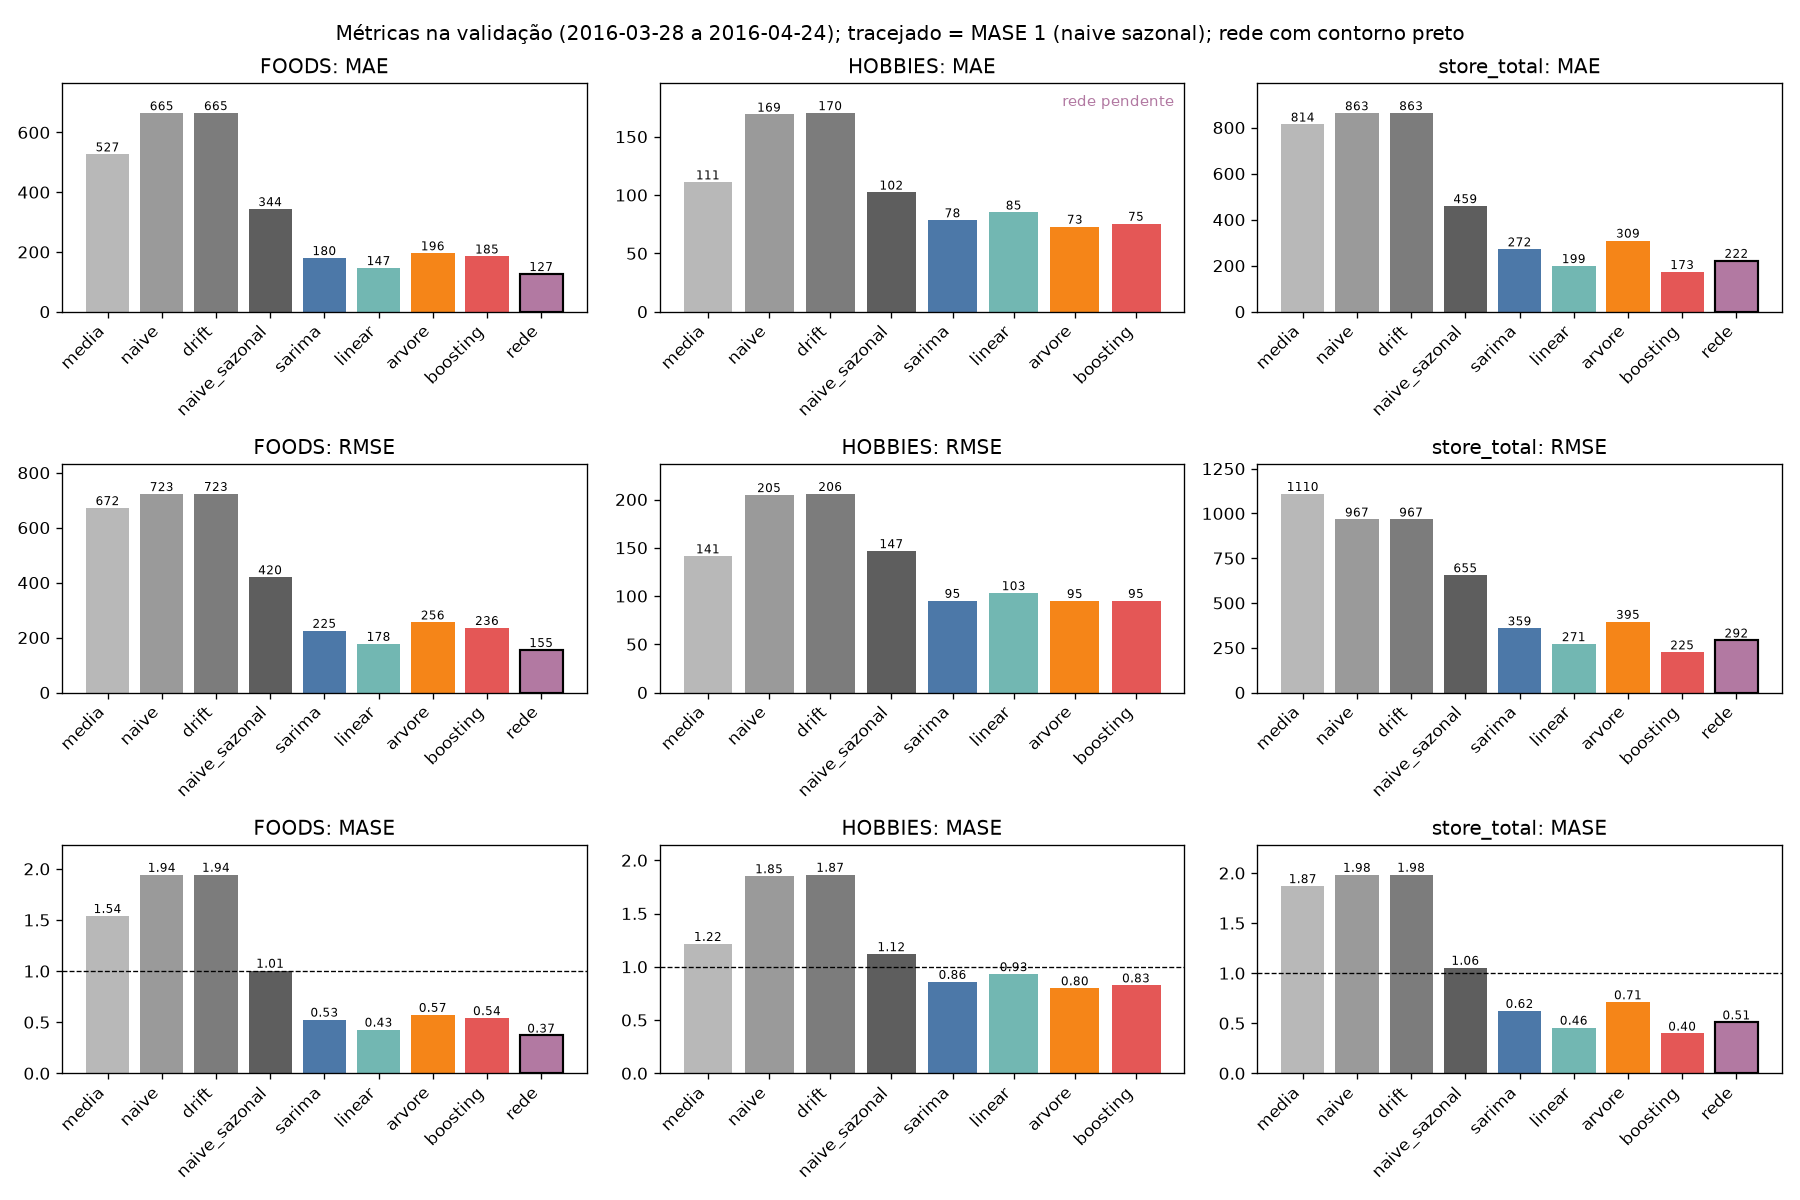
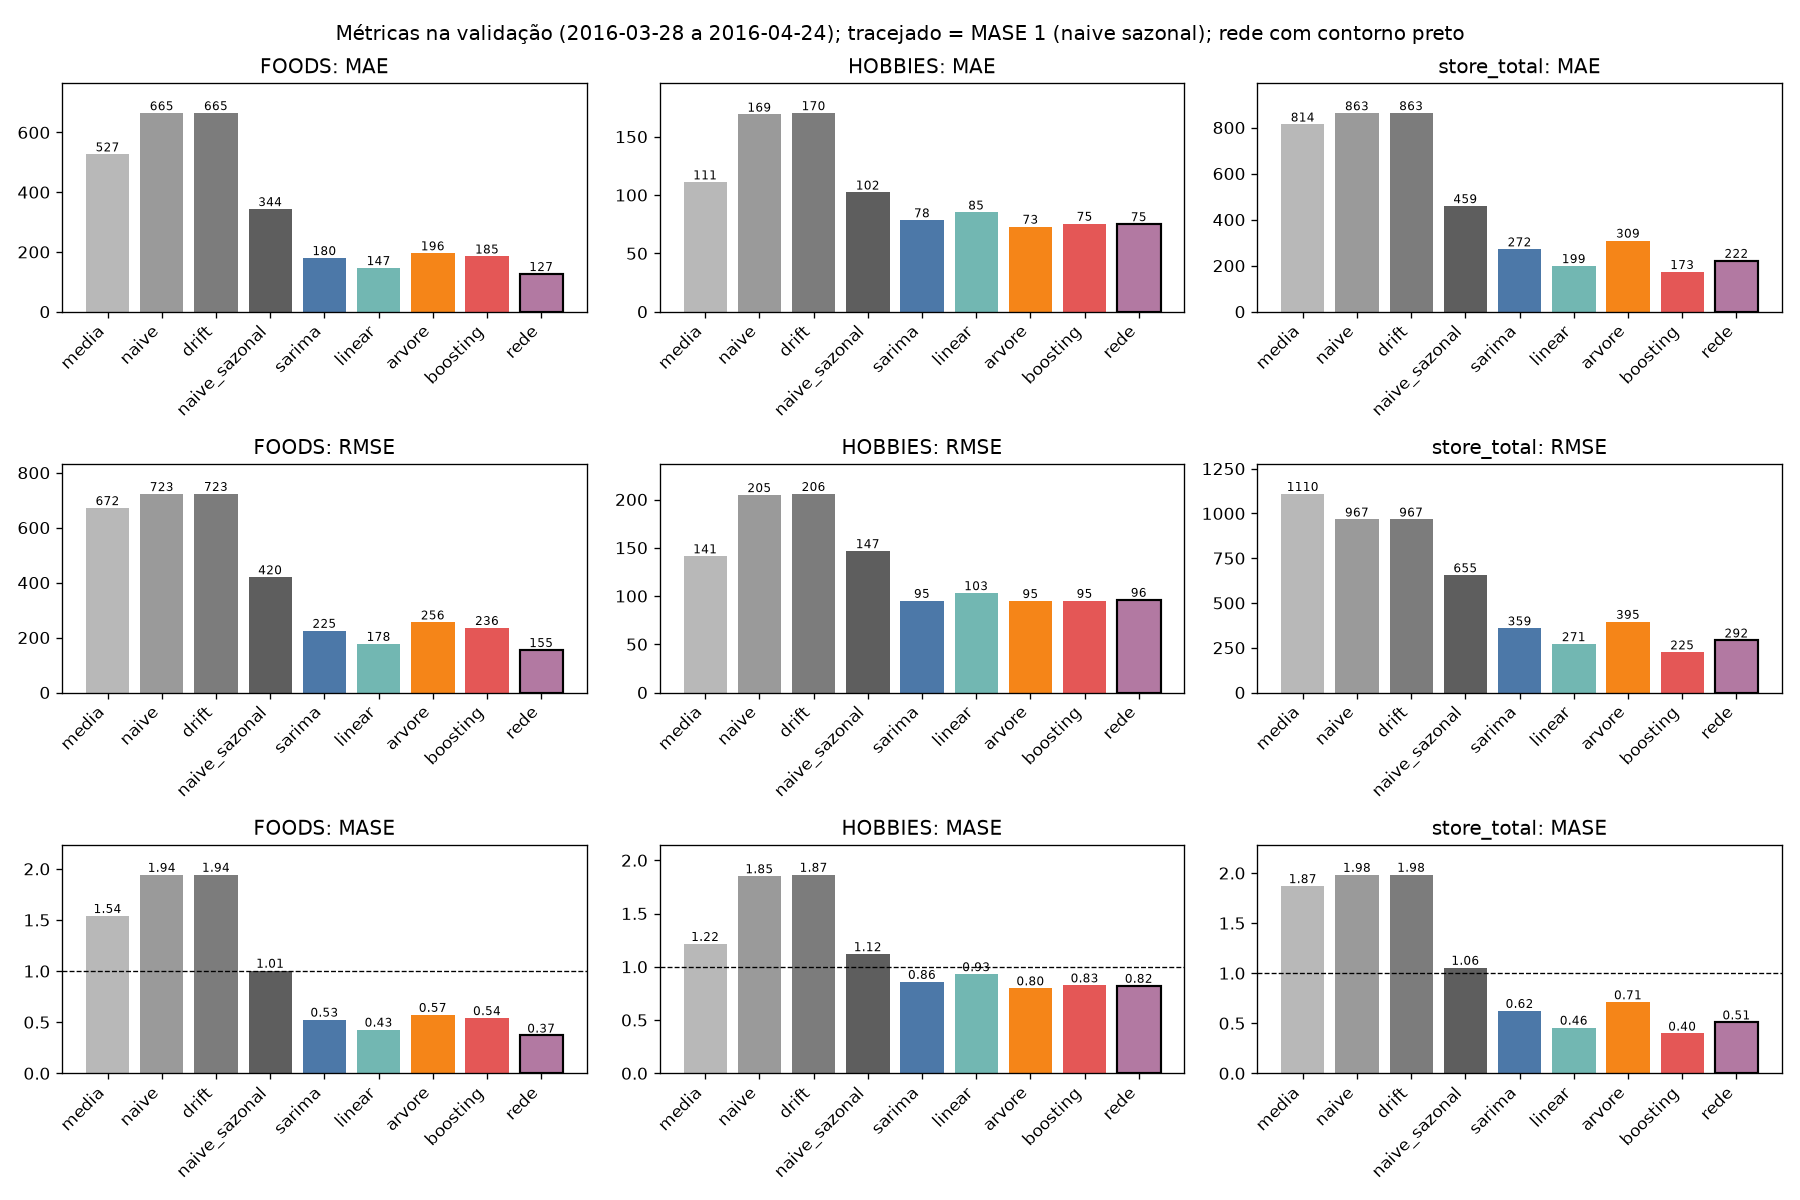
refreshes the Task 4 figures with the HOBBIES rede and fixes two README paths
The figures merged with the plots PR showed HOBBIES as pending. With the
HOBBIES rede in the root CSVs, rerunning part4/src/plot_rede_diagnostico.py
fills those panels. The README still pointed to model_direto_hobbies.py,
which the LSTM branch moved to model_hobbies/linear_direto.py, and the
HOBBIES rede row now names recursive_lstm.py instead of the folder.

diff --git a/README.md b/README.md
@@ -57,14 +57,14 @@ Cada série tem o próprio ajuste. O CSV de previsões de cada modelo tem as col
 | Classe | Série | Arquivo | Script |
 |---|---|---|---|
 | `linear` | FOODS | `part2/projeto-task2/linear_foods_model/previsoes_validacao_foods.csv` | `part2/projeto-task2/linear_foods_model/linear_foods.py` |
-| `linear` | HOBBIES | `part2/outputs/previsoes_linear_direto_HOBBIES.csv` | `part2/src/model_direto_hobbies.py` |
+| `linear` | HOBBIES | `part2/outputs/previsoes_linear_direto_HOBBIES.csv` | `part2/src/model_hobbies/linear_direto.py` |
 | `linear` | store_total | `part2/outputs/previsoes_linear_store_total.csv` | `part2/src/model_store_total/models/linear.py` |
 | `arvore`, `boosting` | HOBBIES | `part3/outputs/previsoes_direto_HOBBIES.csv` | `part3/src/hobbies_model/model_direto_hobbies.py` |
 | `arvore` | store_total | `part3/outputs/previsoes_arvore_store_total.csv` | `part2/src/model_store_total/models/tree_boost_grid_search.py` |
 | `boosting` | store_total | `part3/outputs/previsoes_boosting_store_total.csv` | `part2/src/model_store_total/models/tree_boost_grid_search.py` |
 | `arvore`, `boosting` | FOODS | `part3/outputs/previsoes_direto_FOODS.csv` | `part3/src/foods_model/model_direto_foods.py` |
 | `rede` | FOODS | `part3/src/rede_foods/previsoes_validacao_foods.csv` | `part3/src/rede_foods/main.py` |
-| `rede` | HOBBIES | `part4/outputs/previsoes_rede_HOBBIES.csv` | `part2/src/model_hobbies/lstm/` |
+| `rede` | HOBBIES | `part4/outputs/previsoes_rede_HOBBIES.csv` | `part2/src/model_hobbies/lstm/recursive_lstm.py` |
 | `rede` | store_total | `part4/outputs/previsoes_rede_store_total.csv` | `part2/src/model_store_total/models/mlp/recursive_mlp.py` |
 
 No HOBBIES entra a estratégia direta, tanto no linear quanto em árvore e boosting. No store_total a estratégia sai da validação cruzada temporal dentro do treino (árvore: recursiva; boosting: direta; ver `part3/outputs/cv_store_total.csv`). Os arquivos `recursivo_` foram o teste da outra estratégia e não entram em `metricas.csv`. Em FOODS, árvore e boosting usam a mesma estrutura do HOBBIES com hiperparâmetros fixos a priori, sem busca.
